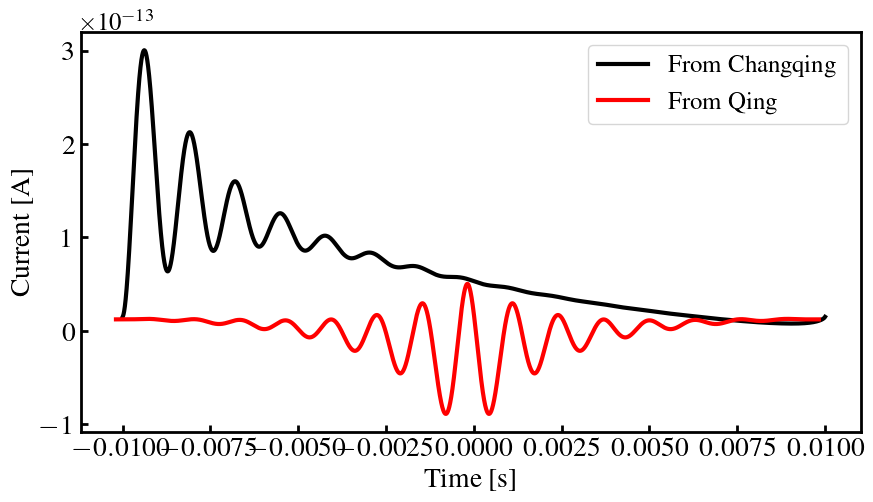
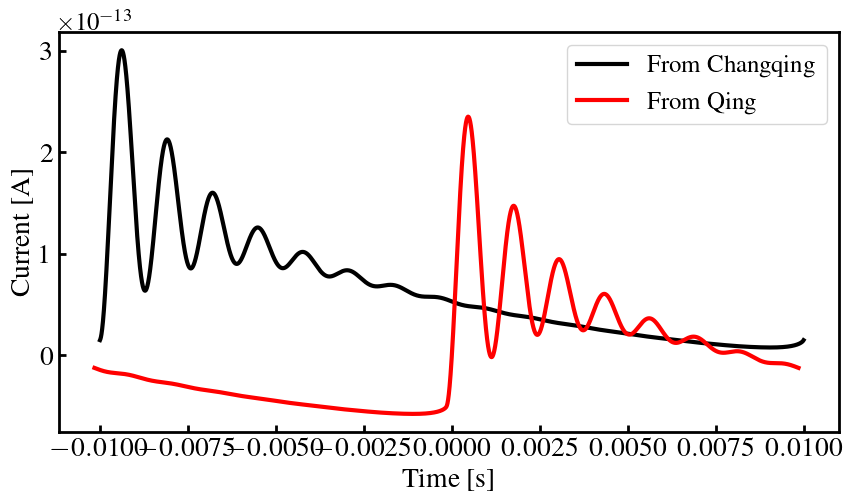
Fix bug. Now require the frequency mirror part to be conjugation of positive part.

diff --git a/modules/CircuitCalculator.py b/modules/CircuitCalculator.py
@@ -95,6 +95,31 @@ class CircuitCalculator:
                     self._noiseInterpolates.append(deepcopy(InterpolatesDict))
         return
 
+    def _conjugate(self, freq, spec):
+        '''
+        conjugate the power spec
+        if positive and negative freq part has different value, stick on positive
+        :param freq:
+        :param values:
+        :return:
+        '''
+        # generate a tracing index table
+        tracking_inds                   = np.linspace(0, freq.shape[0] - 1, freq.shape[0]).astype(np.int)
+        # sorting
+        sort_inds                       = np.argsort(freq)
+        freq_sorted                     = freq[sort_inds]
+        tracking_inds                   = tracking_inds[sort_inds]
+        spec_sorted                     = spec[sort_inds]
+        # conjugate
+        N                               = int(freq.shape[0])
+        if N%2==0:
+            # even case
+            spec_sorted[1:int(N/2)]          = np.conjugate(spec_sorted[::-1][:int(N/2-1)])
+        else:
+            # odd case
+            spec_sorted[:int((N-1)/2)]       = np.conjugate(spec_sorted[::-1][:int((N-1)/2)])
+        return spec_sorted[tracking_inds]
+
     def _generateNoiseFrequencySpec(self, freq, **kwargs):
         '''
         Generate Johnson thermal noise
@@ -111,11 +136,12 @@ class CircuitCalculator:
         sample_step         = kwargs.get('sample_step', 10) # in ns
         sample_rate         = 1./sample_step*1e9 # in Hz
         # Generate random phase
-        phase               = np.random.uniform(0, 2.*np.pi, size=freq.shape[0])
+        phase               = np.exp(1j*np.random.uniform(0, 2.*np.pi, size=freq.shape[0]))
+        phase               = self._conjugate(freq, phase)
         # Get the power spec
         spec                = np.multiply(
-            np.sqrt(4.*self._kB*Temp*(1+Rslope*freq)*Rdc*sample_rate*num_samples),
-            np.exp(1j*phase)
+            np.sqrt(4.*self._kB*Temp*(1+Rslope*np.abs(freq))*Rdc*sample_rate*num_samples),
+            phase
         )
         return spec
 
@@ -127,10 +153,17 @@ class CircuitCalculator:
         '''
         # first fft voltage to spec
         spec                = fftpack.fft(voltages)
+        # get the response
+        amp                 = respond_dict['amp'](np.abs(freq))
+        phase_x             = respond_dict['phase_x'](np.abs(freq))
+        phase_y             = respond_dict['phase_y'](np.abs(freq))
+        # conjugate phase_y
+        phase               = phase_x + 1j*phase_y
+        phase               = self._conjugate(freq, phase)
         # multiply the spec with response function
         spec                = np.multiply(
             spec,
-            respond_dict['amp'](freq)*(respond_dict['phase_x'](freq)+1j*respond_dict['phase_y'](freq))
+            amp*phase
         )
         # inverse fft
         voltages_RLC        = fftpack.ifft(spec)
@@ -142,10 +175,17 @@ class CircuitCalculator:
         :param spec:
         :return:
         '''
+        # get the response
+        amp                 = respond_dict['amp'](np.abs(freq))
+        phase_x             = respond_dict['phase_x'](np.abs(freq))
+        phase_y             = respond_dict['phase_y'](np.abs(freq))
+        # conjugate phase_y
+        phase               = phase_x + 1j*phase_y
+        phase               = self._conjugate(freq, phase)
         # multiply the spec with response function
         spec = np.multiply(
             spec,
-            respond_dict['amp'](freq) * (respond_dict['phase_x'](freq) + 1j * respond_dict['phase_y'](freq))
+            amp*phase
         )
         # inverse fft
         voltages_RLC = fftpack.ifft(spec)
@@ -168,7 +208,7 @@ class CircuitCalculator:
         num_samples                 = kwargs.get('num_samples', 1000)
         sample_step                 = kwargs.get('sample_step', 10) # in ns
         # get frequencies
-        freq                        = np.abs(fftpack.fftfreq(num_samples, sample_step*1e-9)*1e-6) # in MHz
+        freq                        = fftpack.fftfreq(num_samples, sample_step*1e-9)*1e-6 # in MHz
         # signal transfer
         voltages_RLC                = self._transfer_based_on_voltages(freq, voltages, self._signalInterpolates)
         # noise transfer

diff --git a/raws/circuit2_test/PlotWF.py b/raws/circuit2_test/PlotWF.py
@@ -20,7 +20,7 @@ Mode                        = int(sys.argv[5]) # Mode=0 for signal, Mode=1 for n
 
 
 # hard coded
-CoilID                      = 4
+CoilID                      = 5
 
 ############
 # open file
